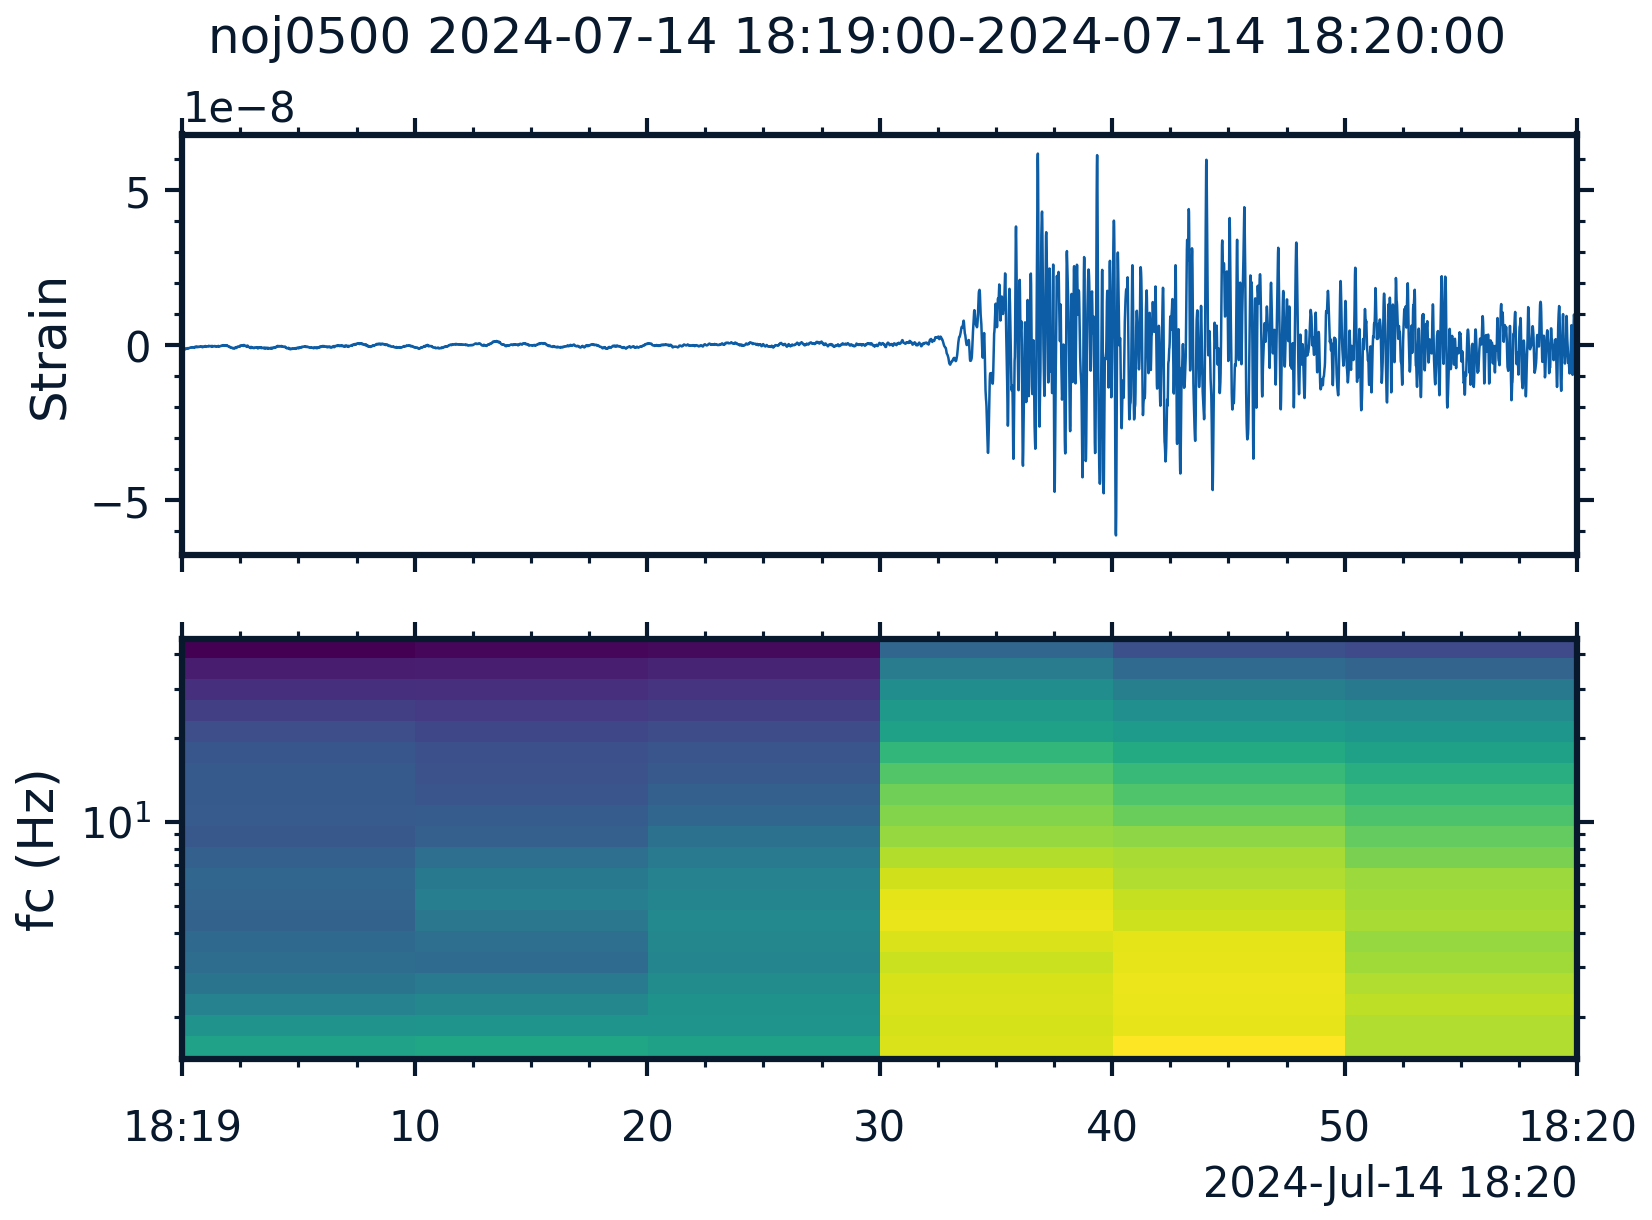
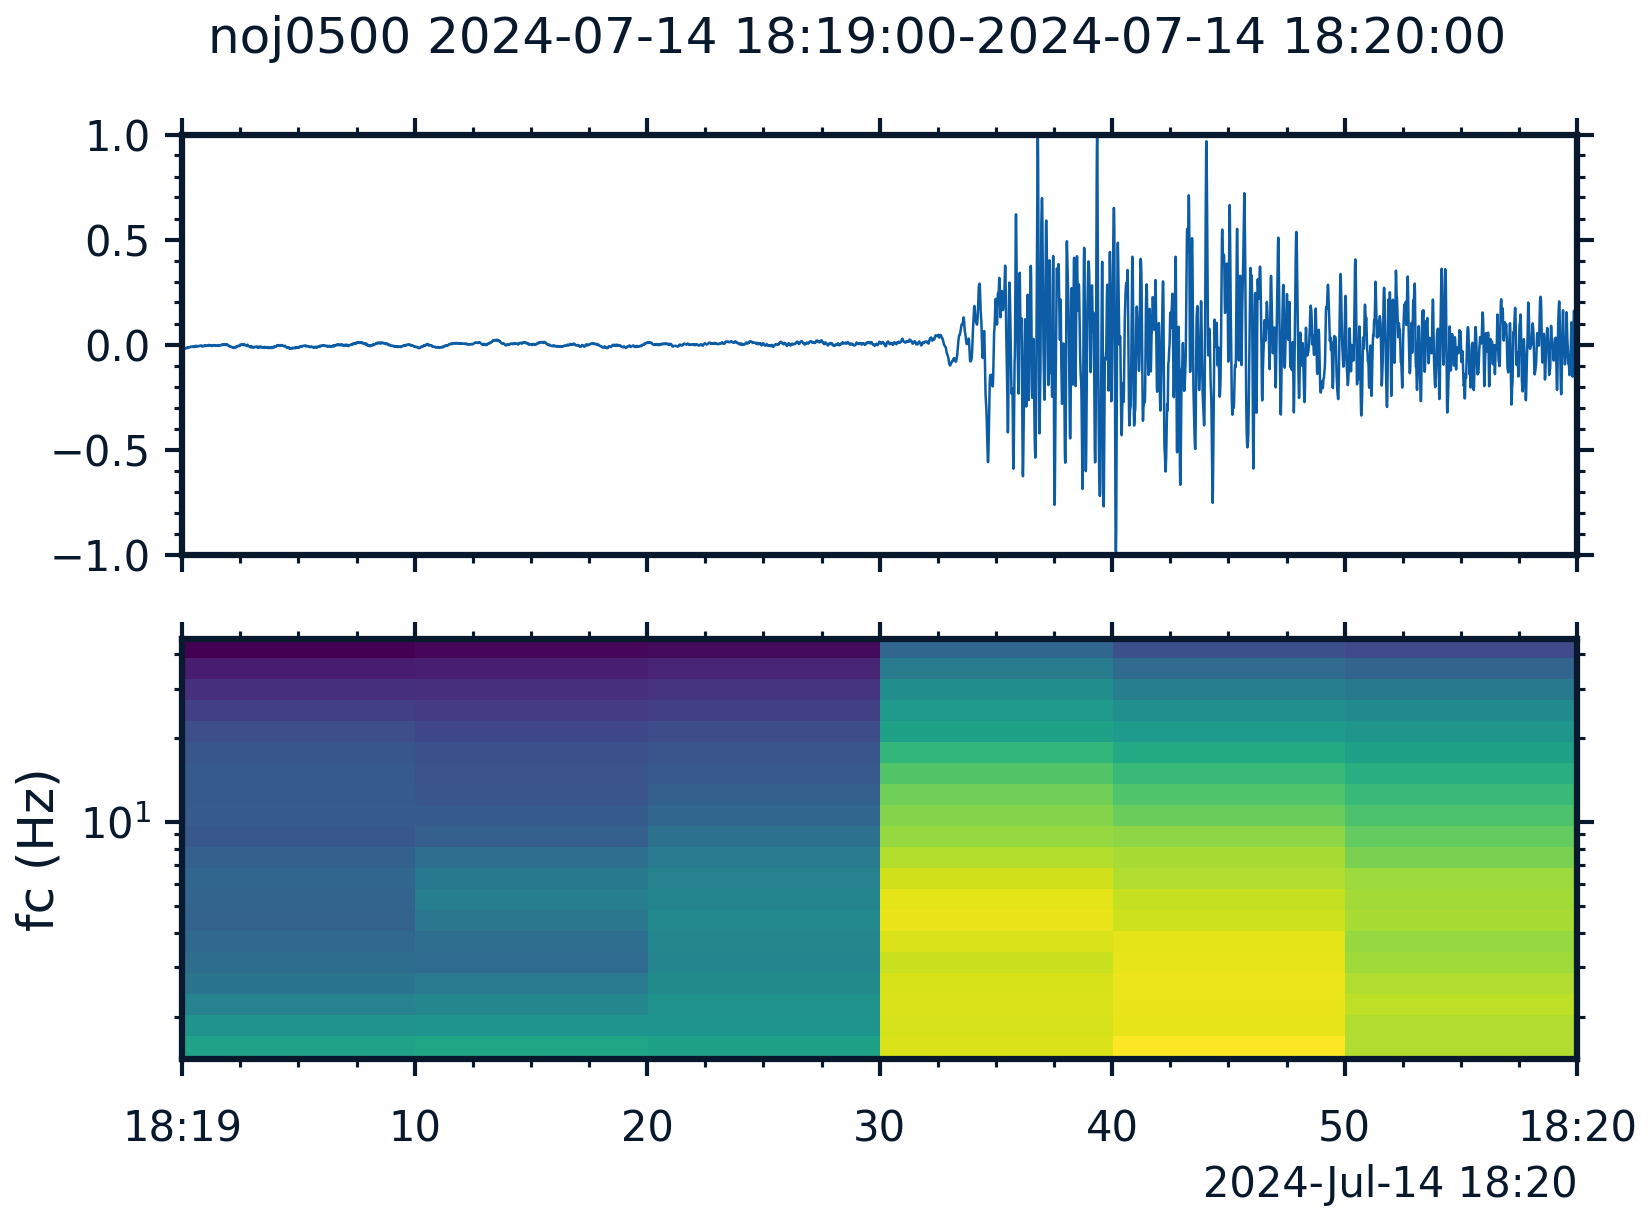
update

diff --git a/sakuradas_waveletscat/utils/read_hdf5.py b/sakuradas_waveletscat/utils/read_hdf5.py
@@ -7,12 +7,11 @@ import time
 
 
 
-def phase2strain(phase):
-    lamda = 1550.12 * 1e-9 ### 光の波長 [m]
-    n = 1.4682 ### 光ファイバーの屈折率
-    xi = 0.78 ### photo-elastic scaling factor
-    G = 9.9259261 ### ゲージ⻑ [m] 
-    return (lamda*phase) / (4*np.pi*n*xi*G)
+def phase2strain(phase, gauge_length):
+    lamda = 1550.12 * 1e-9 
+    n = 1.4682 
+    xi = 0.78
+    return (lamda*phase) / (4*np.pi*n*xi*gauge_length)
 
 
 # JSTに変換する関数
@@ -27,18 +26,16 @@ def read_hdf5(filename, fiber):
     with h5py.File(filename, "r") as h5file:
         raw_data = h5file['Acquisition/Raw[0]/RawData'][:]
         raw_data = np.transpose(raw_data)
-
-        # StartTimeの取得
+        
         start_time_str = h5file["/Acquisition/Raw[0]/RawDataTime"].attrs["StartTime"].decode('utf-8')
         start_time = datetime.fromisoformat(start_time_str.replace('Z', '+00:00'))
 
-        # EndTimeの取得
         end_time_str = h5file["/Acquisition/Raw[0]/RawDataTime"].attrs["EndTime"].decode('utf-8')
         end_time = datetime.fromisoformat(end_time_str.replace('Z', '+00:00'))
 
-        # OutputDataRateの取得
         output_data_rate = h5file["/Acquisition/Raw[0]"].attrs["OutputDataRate"]
         
+        G = h5file["/Acquisition"].attrs["GaugeLength"]
         
     # StartTimeとEndTimeをJSTに変換
     start_time_jst = to_jst(start_time)
@@ -53,11 +50,13 @@ def read_hdf5(filename, fiber):
 
     st_minute = Stream()
     for i in range(raw_data.shape[0]):
-        tr = Trace(phase2strain(raw_data[i,:]))
+        tr = Trace(phase2strain(raw_data[i,:], G))
         tr.stats.starttime = start_time_jst
         tr.stats.sampling_rate = output_data_rate
         if fiber=='round':
-            tr.stats.channel = "sak"+str(i).zfill(4)
+            tr.stats.channel = "X"
+            tr.stats.network = "SAK"
+            tr.stats.station = str(i).zfill(4)
         elif fiber=='nojiri':
             tr.stats.channel = "X"
             tr.stats.network = "NOJ"

diff --git a/sakuradas_waveletscat/scattering.py b/sakuradas_waveletscat/scattering.py
@@ -135,9 +135,9 @@ if __name__ == "__main__":
     fig, ax = plt.subplots(2, sharex=True, figsize=(6,4))
 
     # Plot the waveform
-    ax[0].plot(trace.times("matplotlib"), trace.data, rasterized=True, lw=0.6)
-    #ax[0].set_ylim(-1e+2,1e+2)
-    ax[0].set_ylabel("Strain", fontsize=12)
+    ax[0].plot(trace.times("matplotlib"), trace.data/np.nanmax(np.abs(trace.data)), rasterized=True, lw=0.6)
+    ax[0].set_ylim(-1,1)
+    
 
     # First-order scattering coefficients
     ax[1].pcolormesh(timestamps, center_frequencies, order_1.T, rasterized=True)
@@ -180,11 +180,10 @@ if __name__ == "__main__":
     fig, ax = plt.subplots(3, sharex=True, figsize=(6,4))
 
     # Plot the waveform
-    ax[0].plot(trace.times("matplotlib"), trace.data, rasterized=True, lw=0.6)
-    #ax[0].set_ylim(-1e+2,1e+2)
+    ax[0].plot(trace.times("matplotlib"), trace.data/np.nanmax(np.abs(trace.data)), rasterized=True, lw=0.6)
+    ax[0].set_ylim(-1,1)
     
     ax[0].set_xlim(hdf5_starttime_jst, hdf5_endttime_jst)
-    ax[0].set_ylabel("Strain", fontsize=12)
     
     for spine in ax[0].spines.values():
         spine.set_linewidth(1.5) 
@@ -255,9 +254,9 @@ if __name__ == "__main__":
     fig, ax = plt.subplots(2, sharex=True, figsize=(6,4))
 
     # Plot the waveform
-    ax[0].plot(trace.times("matplotlib"), trace.data, rasterized=True, lw=0.6)
-    #ax[0].set_ylim(-1e+2,1e+2)
-    ax[0].set_ylabel("Strain", fontsize=12)
+    ax[0].plot(trace.times("matplotlib"), trace.data/np.nanmax(np.abs(trace.data)), rasterized=True, lw=0.6)
+    ax[0].set_ylim(-1,1)
+    
     
     # First-order scattering coefficients
     
